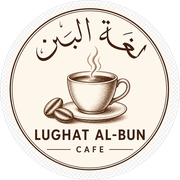
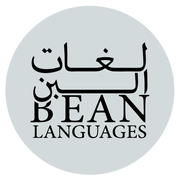
Rename brand to لغات البن / Bean Languages
Update UI copy, PWA names, seed/store settings, and refresh logo
assets from the official Bean Languages mark.

diff --git a/src/app/order/[publicNumber]/page.tsx b/src/app/order/[publicNumber]/page.tsx
@@ -14,7 +14,7 @@ type PageProps = {
 function SystemPreparing() {
   return (
     <main className="mx-auto flex min-h-dvh max-w-lg flex-col items-center justify-center px-6 py-16 text-center">
-      <p className="font-display text-2xl">لغة البن</p>
+      <p className="font-display text-2xl">لغات البن</p>
       <p className="mt-8 text-lg text-[var(--ink-muted)]">النظام قيد التجهيز</p>
       <Button asLink href="/order" variant="secondary" className="mt-8">
         رجوع
@@ -26,7 +26,7 @@ function SystemPreparing() {
 function OrderNotFound() {
   return (
     <main className="mx-auto flex min-h-dvh max-w-lg flex-col items-center justify-center px-6 py-16 text-center">
-      <p className="font-display text-2xl">لغة البن</p>
+      <p className="font-display text-2xl">لغات البن</p>
       <p className="mt-8 text-lg text-[var(--ink-muted)]">ما لقينا الطلب</p>
       <p className="mt-2 text-sm text-[var(--ink-muted)]">
         تأكد من الرابط أو اطلب من جديد
@@ -76,7 +76,7 @@ export default async function OrderStatusPage({ params, searchParams }: PageProp
   if (domainError) {
     return (
       <main className="mx-auto flex min-h-dvh max-w-lg flex-col items-center justify-center px-6 py-16 text-center">
-        <p className="font-display text-2xl">لغة البن</p>
+        <p className="font-display text-2xl">لغات البن</p>
         <p className="mt-8 text-lg text-[var(--ink-muted)]">{domainError.message}</p>
         <Button asLink href="/order" variant="secondary" className="mt-8">
           رجوع

diff --git a/src/app/apps/customer/page.tsx b/src/app/apps/customer/page.tsx
@@ -4,7 +4,7 @@ import { customerAppMetadata } from "@/lib/pwa/metadata";
 
 export const metadata = {
   ...customerAppMetadata,
-  title: "لغة البن",
+  title: "لغات البن",
   description: "ثبّت تطبيق العملاء على الشاشة الرئيسية",
 };
 
@@ -13,13 +13,13 @@ export default function CustomerAppInstallPage() {
     <main className="mx-auto flex min-h-dvh max-w-lg flex-col items-center px-6 py-12 text-center">
       <Image
         src="/icons/customer/apple-touch-icon.png"
-        alt="لغة البن"
+        alt="لغات البن"
         width={120}
         height={120}
         className="size-[7.5rem] rounded-[28px] shadow-sm"
         priority
       />
-      <h1 className="mt-6 font-display text-3xl text-[var(--ink)]">لغة البن</h1>
+      <h1 className="mt-6 font-display text-3xl text-[var(--ink)]">لغات البن</h1>
       <p className="mt-2 text-sm text-[var(--ink-muted)]">
         تطبيق العملاء — اطلب من السيارة
       </p>
@@ -27,7 +27,7 @@ export default function CustomerAppInstallPage() {
       <ol className="mt-8 w-full space-y-3 rounded-2xl border border-[var(--line)] bg-[var(--elevated)]/70 p-5 text-start text-sm text-[var(--ink)]">
         <li>1. من سفاري: اضغط مشاركة</li>
         <li>2. اختر «إضافة إلى الشاشة الرئيسية»</li>
-        <li>3. الاسم: لغة البن — ثم إضافة</li>
+        <li>3. الاسم: لغات البن — ثم إضافة</li>
       </ol>
 
       <Link

diff --git a/src/app/apps/page.tsx b/src/app/apps/page.tsx
@@ -4,7 +4,7 @@ import { customerAppMetadata } from "@/lib/pwa/metadata";
 
 export const metadata = {
   ...customerAppMetadata,
-  title: "تطبيقات لغة البن",
+  title: "تطبيقات لغات البن",
   description: "ثبّت تطبيق العملاء أو تطبيق الطاقم على الشاشة الرئيسية",
 };
 
@@ -25,14 +25,14 @@ export default function AppsHubPage() {
       <header className="mb-10 text-center">
         <Image
           src="/brand/lughat-albun-logo-circle.png"
-          alt="لغة البن"
+          alt="لغات البن"
           width={96}
           height={96}
           className="mx-auto size-24 rounded-full object-cover"
           priority
         />
         <h1 className="mt-5 font-display text-3xl text-[var(--ink)]">
-          تطبيقات لغة البن
+          تطبيقات لغات البن
         </h1>
         <p className="mt-2 text-sm text-[var(--ink-muted)]">
           تطبيقين منفصلين على الآيفون — واحد للعملاء وواحد للستاف والأدمن
@@ -51,7 +51,7 @@ export default function AppsHubPage() {
             />
             <div>
               <h2 className="text-lg font-semibold">تطبيق العملاء</h2>
-              <p className="text-sm text-[var(--ink-muted)]">لغة البن</p>
+              <p className="text-sm text-[var(--ink-muted)]">لغات البن</p>
             </div>
           </div>
           <p className="mt-3 text-sm text-[var(--ink-muted)]">

diff --git a/src/app/apps/ops/page.tsx b/src/app/apps/ops/page.tsx
@@ -4,8 +4,8 @@ import { opsAppMetadata } from "@/lib/pwa/metadata";
 
 export const metadata = {
   ...opsAppMetadata,
-  title: "طاقم البن",
-  description: "Staff + Admin app for Lughat Al-Bun",
+  title: "طاقم لغات البن",
+  description: "Staff + Admin app for Bean Languages",
 };
 
 export default function OpsAppHomePage() {
@@ -14,15 +14,15 @@ export default function OpsAppHomePage() {
       <header className="mb-8 text-center">
         <Image
           src="/icons/ops/apple-touch-icon.png"
-          alt="طاقم البن"
+          alt="طاقم لغات البن"
           width={112}
           height={112}
           className="mx-auto size-28 rounded-[26px] shadow-sm"
           priority
         />
-        <h1 className="mt-5 font-display text-3xl text-[var(--ink)]">طاقم البن</h1>
+        <h1 className="mt-5 font-display text-3xl text-[var(--ink)]">طاقم لغات البن</h1>
         <p className="mt-2 text-sm text-[var(--ink-muted)]">
-          Staff + Admin · Lughat Al-Bun
+          Staff + Admin · Bean Languages
         </p>
       </header>
 
@@ -31,7 +31,7 @@ export default function OpsAppHomePage() {
         <ol className="list-decimal space-y-1.5 pe-5 text-sm text-[var(--ink-muted)]">
           <li>Tap Share</li>
           <li>Add to Home Screen</li>
-          <li>Name: طاقم البن — Add</li>
+          <li>Name: طاقم لغات البن — Add</li>
         </ol>
       </section>
 

diff --git a/src/lib/pwa/metadata.ts b/src/lib/pwa/metadata.ts
@@ -9,7 +9,7 @@ const sharedIcons = {
 } as const;
 
 export const customerAppMetadata: Metadata = {
-  applicationName: "لغة البن",
+  applicationName: "لغات البن",
   manifest: "/manifests/customer.webmanifest",
   icons: {
     ...sharedIcons,
@@ -37,18 +37,18 @@ export const customerAppMetadata: Metadata = {
   },
   appleWebApp: {
     capable: true,
-    title: "لغة البن",
+    title: "لغات البن",
     statusBarStyle: "black-translucent",
   },
 };
 
 export const opsAppMetadata: Metadata = {
-  applicationName: "طاقم البن",
+  applicationName: "طاقم لغات البن",
   title: {
-    default: "طاقم البن",
-    template: "%s | طاقم البن",
+    default: "طاقم لغات البن",
+    template: "%s | طاقم لغات البن",
   },
-  description: "Staff and admin app — Lughat Al-Bun",
+  description: "Staff and admin app — Bean Languages",
   manifest: "/manifests/ops.webmanifest",
   icons: {
     ...sharedIcons,
@@ -76,7 +76,7 @@ export const opsAppMetadata: Metadata = {
   },
   appleWebApp: {
     capable: true,
-    title: "طاقم البن",
+    title: "طاقم لغات البن",
     statusBarStyle: "black-translucent",
   },
 };

diff --git a/src/app/layout.tsx b/src/app/layout.tsx
@@ -18,12 +18,12 @@ const fraunces = Fraunces({
 
 export const metadata: Metadata = {
   title: {
-    default: "لغة البن — طلب من السيارة",
-    template: "%s | لغة البن",
+    default: "لغات البن — طلب من السيارة",
+    template: "%s | لغات البن",
   },
   description:
-    "اطلب قهوتك من مكانك وخلك بالسيارة. لغة البن — Lughat Albun Café.",
-  applicationName: "لغة البن",
+    "اطلب قهوتك من مكانك وخلك بالسيارة. لغات البن — Bean Languages.",
+  applicationName: "لغات البن",
   manifest: "/manifests/customer.webmanifest",
   icons: {
     icon: [
@@ -52,7 +52,7 @@ export const metadata: Metadata = {
   },
   appleWebApp: {
     capable: true,
-    title: "لغة البن",
+    title: "لغات البن",
     statusBarStyle: "black-translucent",
   },
 };

diff --git a/tests/e2e/curbside-happy-path.spec.ts b/tests/e2e/curbside-happy-path.spec.ts
@@ -8,7 +8,7 @@ const hasSupabaseSecrets = Boolean(
   process.env.NEXT_PUBLIC_SUPABASE_URL && process.env.SUPABASE_SERVICE_ROLE_KEY,
 );
 
-test.describe("لغة البن curbside happy path", () => {
+test.describe("لغات البن curbside happy path", () => {
   test.skip(!hasSupabaseSecrets, "Supabase secrets required for E2E");
 
   test.beforeEach(async ({ page }) => {
@@ -19,7 +19,7 @@ test.describe("لغة البن curbside happy path", () => {
     page,
     context,
   }) => {
-    await expect(page.getByRole("heading", { name: /لغة البن|قهوتك تجيك/ })).toBeVisible();
+    await expect(page.getByRole("heading", { name: /لغات البن|قهوتك تجيك/ })).toBeVisible();
     const start = page.getByRole("link", { name: /ابدأ الطلب/ });
     await expect(start).toBeVisible();
     await start.click();

diff --git a/src/app/order/page.tsx b/src/app/order/page.tsx
@@ -12,7 +12,7 @@ function BrandMark() {
     <div className="flex flex-col items-center gap-4 animate-fade-up">
       <Image
         src="/brand/lughat-albun-logo-circle.png"
-        alt="لغة البن"
+        alt="لغات البن"
         width={160}
         height={160}
         priority
@@ -20,10 +20,10 @@ function BrandMark() {
       />
       <div className="flex flex-col items-center gap-1">
         <span className="font-display text-[2.75rem] leading-none tracking-tight text-[var(--ink)] sm:text-5xl">
-          لغة البن
+          لغات البن
         </span>
         <span className="text-xs font-semibold tracking-[0.22em] text-[var(--accent)] uppercase">
-          Lughat Al-Bun Café
+          Bean Languages
         </span>
       </div>
     </div>

diff --git a/src/lib/staff-i18n/messages/bn.ts b/src/lib/staff-i18n/messages/bn.ts
@@ -1,7 +1,7 @@
 import type { StaffMessages } from "../types";
 
 export const bn: StaffMessages = {
-  brand: "লুগাত আল-বুন",
+  brand: "বিন ল্যাঙ্গুয়েজেস",
   login: {
     panelTitle: "স্টাফ প্যানেল",
     title: "সাইন ইন",
@@ -13,7 +13,7 @@ export const bn: StaffMessages = {
   },
   queue: {
     title: "অর্ডার কিউ",
-    live: "লুগাত আল-বুন · লাইভ",
+    live: "বিন ল্যাঙ্গুয়েজেস · লাইভ",
     soundOn: "সাউন্ড অ্যালার্ট · চালু",
     soundOff: "সাউন্ড অ্যালার্ট",
     refresh: "রিফ্রেশ",

diff --git a/src/lib/staff-i18n/messages/hi.ts b/src/lib/staff-i18n/messages/hi.ts
@@ -1,7 +1,7 @@
 import type { StaffMessages } from "../types";
 
 export const hi: StaffMessages = {
-  brand: "लुग़त अल-बुन",
+  brand: "बीन लैंग्वेजेज़",
   login: {
     panelTitle: "स्टाफ पैनल",
     title: "साइन इन",
@@ -13,7 +13,7 @@ export const hi: StaffMessages = {
   },
   queue: {
     title: "ऑर्डर कतार",
-    live: "लुग़त अल-बुन · लाइव",
+    live: "बीन लैंग्वेजेज़ · लाइव",
     soundOn: "साउंड अलर्ट · चालू",
     soundOff: "साउंड अलर्ट",
     refresh: "रिफ्रेश",

diff --git a/tests/e2e/landing-menu.spec.ts b/tests/e2e/landing-menu.spec.ts
@@ -1,9 +1,9 @@
 import { expect, test } from "@playwright/test";
 
-test.describe("لغة البن landing + menu smoke", () => {
+test.describe("لغات البن landing + menu smoke", () => {
   test("QR landing shows availability and opens menu", async ({ page }) => {
     await page.goto("/order?source=qr");
-    await expect(page.getByText("لغة البن").first()).toBeVisible();
+    await expect(page.getByText("لغات البن").first()).toBeVisible();
     await expect(page.getByText(/قهوتك تجيك/)).toBeVisible();
     await expect(page.getByText(/طلبات السيارة/)).toBeVisible();
 

diff --git a/src/components/order/menu-view.tsx b/src/components/order/menu-view.tsx
@@ -183,7 +183,7 @@ export function MenuView({ menu, source }: MenuViewProps) {
       <header className="sticky top-0 z-20 border-b border-[var(--line)] bg-[var(--parchment-from)]/90 px-5 py-4 backdrop-blur-md">
         <div className="flex items-center justify-between gap-3">
           <div>
-            <p className="font-display text-xl text-[var(--ink)]">لغة البن</p>
+            <p className="font-display text-xl text-[var(--ink)]">لغات البن</p>
             <p className="text-xs text-[var(--ink-muted)]">طلب من السيارة</p>
           </div>
           <Button
